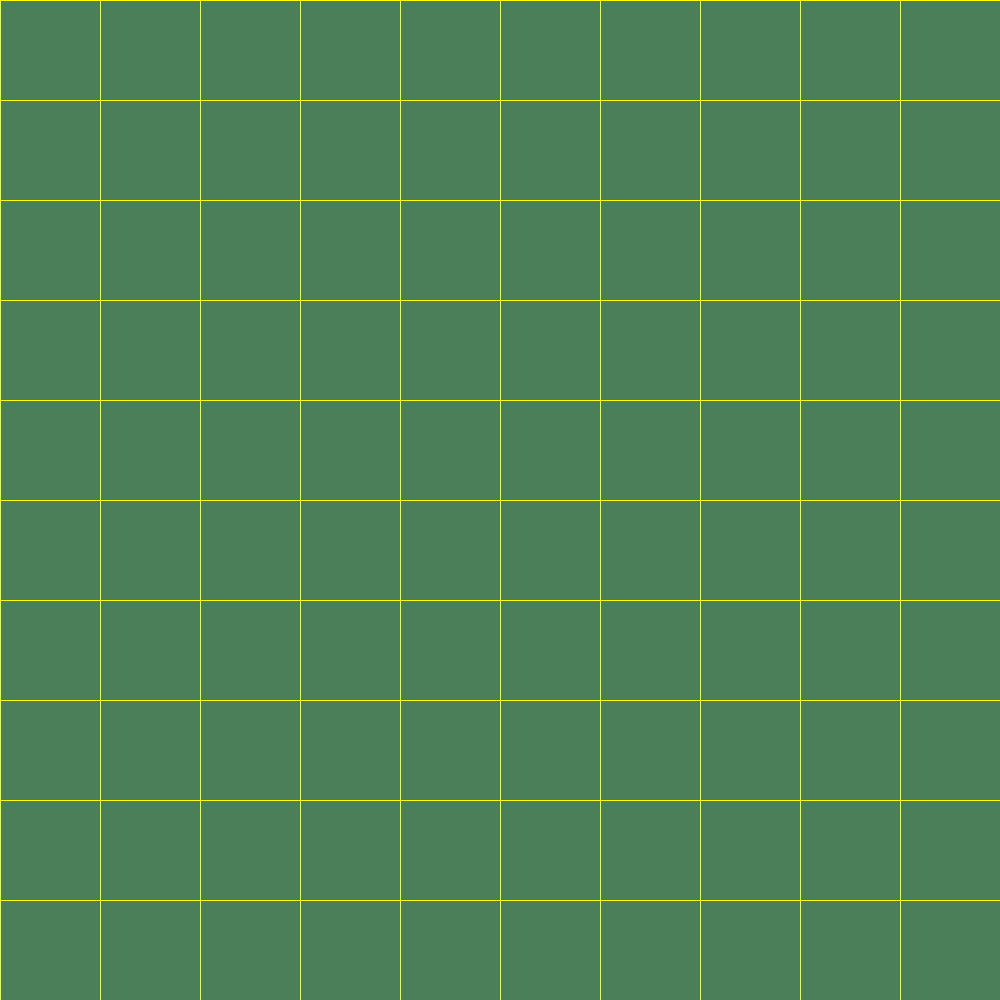
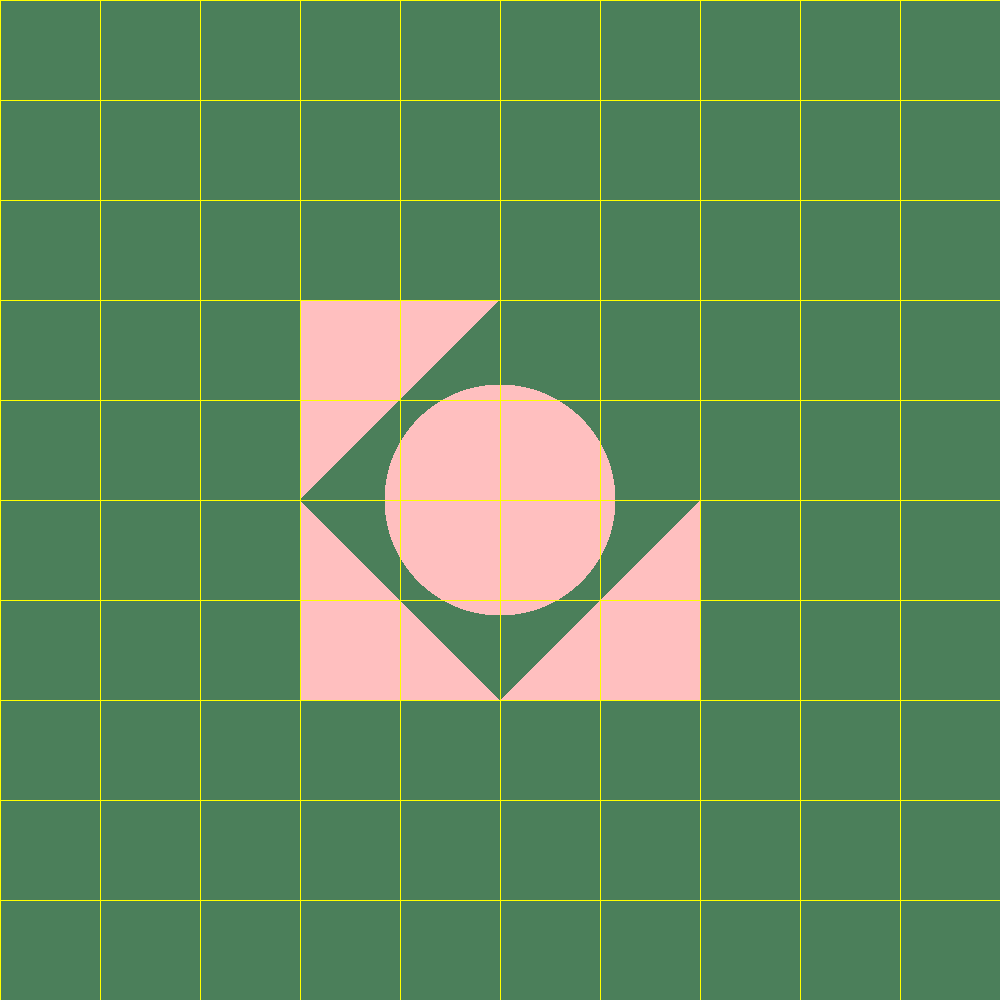
end of targil 5

Changed region(s): [[0.279, 0.279, 0.713, 0.713]]

diff --git a/src/renderer/Camera.java b/src/renderer/Camera.java
@@ -25,45 +25,47 @@ public class Camera {
      * @param up vector up
      * @param to vector to
      */
-    public Camera(Point p,Vector to,Vector up)
-    {
-        if(up.dotProduct(to)!=0)
-        {
+    public Camera(Point p, Vector to, Vector up) {
+        if (!isZero(up.dotProduct(to))) {
             throw new IllegalArgumentException();
         }
-        vTo=to.normalize();
-        vUp=up.normalize();
-        vRight=to.crossProduct(up).normalize();
-        place=p;
+
+        vTo = to.normalize();
+        vUp = up.normalize();
+
+        vRight = vTo.crossProduct(vUp);
+
+        place = p;
 
     }
 
     /**
      * set the size of view plane
-     * @param wh width
-     * @param ht height
+     *
+     * @param width  width of the view plane
+     * @param height height of the view plane
      * @return camera
      */
-    public Camera setVPSize(double wh, double ht)
-    {
-        width=wh;
-        height=ht;
+    public Camera setVPSize(double width, double height) {
+        this.width = width;
+        this.height = height;
         return this;
     }
 
     /**
      * set the distance of the view plane from the camera
+     *
      * @param d double
      * @return camera
      */
-    public Camera setVPDistance(double d)
-    {
-        distance=d;
+    public Camera setVPDistance(double d) {
+        distance = d;
         return this;
     }
 
     /**
      * return the place
+     *
      * @return place
      */
     public Point getPlace() {
@@ -72,6 +74,7 @@ public class Camera {
 
     /**
      * return the v to
+     *
      * @return
      */
     public Vector getVTo() {
@@ -80,6 +83,7 @@ public class Camera {
 
     /**
      * return the v up
+     *
      * @return
      */
     public Vector getVUp() {
@@ -88,6 +92,7 @@ public class Camera {
 
     /**
      * return the vRight
+     *
      * @return
      */
     public Vector getVRight() {
@@ -96,6 +101,7 @@ public class Camera {
 
     /**
      * return distance
+     *
      * @return
      */
     public double getDistance() {
@@ -104,6 +110,7 @@ public class Camera {
 
     /**
      * return width
+     *
      * @return
      */
     public double getWidth() {
@@ -112,6 +119,7 @@ public class Camera {
 
     /**
      * return Height
+     *
      * @return
      */
     public double getHeight() {
@@ -120,22 +128,22 @@ public class Camera {
 
     /**
      * calaulate and return the ray from the camera to the specific pixel
-     * @param nX- Pixel size in a row
-     * @param nY- Pixel size in a column
+     *
+     * @param nX-   Pixel size in a row
+     * @param nY-   Pixel size in a column
      * @param j-The number of pixels to move in a row
      * @param i-The number of pixels to move in a column
      * @return the ray from the camera to the specific pixel
      */
-    public Ray constructRay(int nX, int nY, int j, int i)
-    {
+    public Ray constructRay(int nX, int nY, int j, int i) {
 
         Point Pc = place.add(vTo.scale(distance));
 
-        double Ry= height/nY;
-        double Rx= width/nX;
+        double Ry = height / nY;
+        double Rx = width / nX;
 
-        double yi=-(i-(nY-1)/2d)*Ry;
-        double xj=(j-(nX-1)/2d)*Rx;
+        double yi = -(i - (nY - 1) / 2d) * Ry;
+        double xj = (j - (nX - 1) / 2d) * Rx;
 
         Point pij = Pc;
 
@@ -150,20 +158,21 @@ public class Camera {
         }
         //if the moving is only at row
         if (isZero(yi)) {
-           pij = pij.add(vRight.scale(xj));
+            pij = pij.add(vRight.scale(xj));
             return new Ray(place, pij.subtract(place));
         }
         //pij is the point after the moving
-        pij =pij.add(vRight.scale(xj).add(vUp.scale(yi)));
+        pij = pij.add(vRight.scale(xj).add(vUp.scale(yi)));
 
 
-        return new Ray(place,pij.subtract(place));
+        return new Ray(place, pij.subtract(place));
 
 
     }
 
     /**
      * set ImageWriter
+     *
      * @param imageWriter
      * @return
      */
@@ -186,20 +195,25 @@ public class Camera {
      * build the image with printing the geometries and the background
      */
     public void renderImage() {
-         if(place==null || vTo==null||vUp==null|| vRight==null|| width==0|| height==0|| imageWriter==null|| rayTracer==null)
-             throw new UnsupportedOperationException();
-        int Nx=imageWriter.getNx();
-        int Ny= imageWriter.getNy();
-        double interval = Nx/width;  //יכול להיות צריך לחלק בגובה ולא ברוחב
-        for (int i = 0; i < Nx; i++) {
-            for (int j = 0; j < Ny; j++) {
-                {imageWriter.writePixel(j,i,rayTracer.traceRay(constructRay(Nx,Ny,j,i)));}
+        if (place == null || vTo == null || vUp == null || vRight == null || width == 0 || height == 0 || imageWriter == null || rayTracer == null)
+            throw new UnsupportedOperationException();
+        int Nx = imageWriter.getNx();
+        int Ny = imageWriter.getNy();
+//        double interval = Nx / width;  //יכול להיות צריך לחלק בגובה ולא ברוחב
+        for (int i = 0; i < Ny; i++) {
+            for (int j = 0; j < Nx; j++) {
+                castRay(Nx, Ny, i, j);
             }
         }
         imageWriter.writeToImage();
 
     }
 
+    private void castRay(int Nx, int Ny, int i, int j) {
+        Ray ray = constructRay(Nx, Ny, j, i);
+        Color pixelColor = rayTracer.traceRay(ray);
+        imageWriter.writePixel(j, i, pixelColor);
+    }
 
 
     public void writeToImage() {
@@ -207,9 +221,9 @@ public class Camera {
     }
 
     public void printGrid(int interval, Color color) {
-        if(color==null)
-            throw new UnsupportedOperationException();
-         imageWriter.printGrid(interval,color);
+//        if (color == null)
+//            throw new UnsupportedOperationException();
+        imageWriter.printGrid(interval, color);
     }
 
 }

diff --git a/src/geometries/Geometries.java b/src/geometries/Geometries.java
@@ -4,34 +4,43 @@ import primitives.Point;
 import primitives.Ray;
 
 import java.util.ArrayList;
+import java.util.LinkedList;
 import java.util.List;
 
-public class Geometries implements Intersectable{
+public class Geometries implements Intersectable {
 
-    private List<Intersectable> shapes;
-    @Override
-    public List<Point> findIntersections(Ray ray) {
-        List<Point> lst=null;
-        for(Intersectable i:shapes)
-        {
-            List<Point> lstHelp=i.findIntersections(ray);
-            if(lstHelp!=null)
-            {
-                if(lst==null)
-                    lst=new ArrayList<>();
-                lst.addAll(lstHelp);
-            }
+    private List<Intersectable> shapes = null;
+    
+    public Geometries() {
+        shapes = new LinkedList<>();
+    }
+
+    public Geometries(Intersectable... geometries) {
+        this();
+        add(geometries);
+    }
+
+    public void add(Intersectable... geometries) {
+        if (shapes == null) {
+            throw new IllegalStateException("list not created");
         }
-        return null;
-    }
-
-    public Geometries()
-    {
-        shapes=new ArrayList<Intersectable>();
-    }
-    public Geometries(Intersectable... geometries) {}
-    public void add (Intersectable... geometries){
-        for(Intersectable i:geometries)
+        for (Intersectable i : geometries)
             shapes.add(i);
     }
+
+    @Override
+    public List<Point> findIntersections(Ray ray) {
+        List<Point> lst = null;
+        for (Intersectable shape : shapes) {
+            List<Point> shapeList = shape.findIntersections(ray);
+            if (shapeList != null) {
+                if (lst == null) {
+                    lst = new LinkedList<>();
+                }
+                lst.addAll(shapeList);
+            }
+        }
+        return lst;
+    }
+
 }

diff --git a/src/renderer/RayTracerBasic.java b/src/renderer/RayTracerBasic.java
@@ -30,11 +30,12 @@ public class RayTracerBasic extends RayTracer{
     @Override
     public Color traceRay(Ray ray) {
         List<Point> lst= scene.getGeometries().findIntersections(ray);
-        Point closetPoint = ray.findClosestPoint(lst);
-        if (closetPoint==null)
+
+        if(lst == null){
             return scene.getBackGround();
-        else
-            return calcColor(closetPoint);
+        }
+        Point closetPoint = ray.findClosestPoint(lst);
+        return calcColor(closetPoint);
     }
 
 
